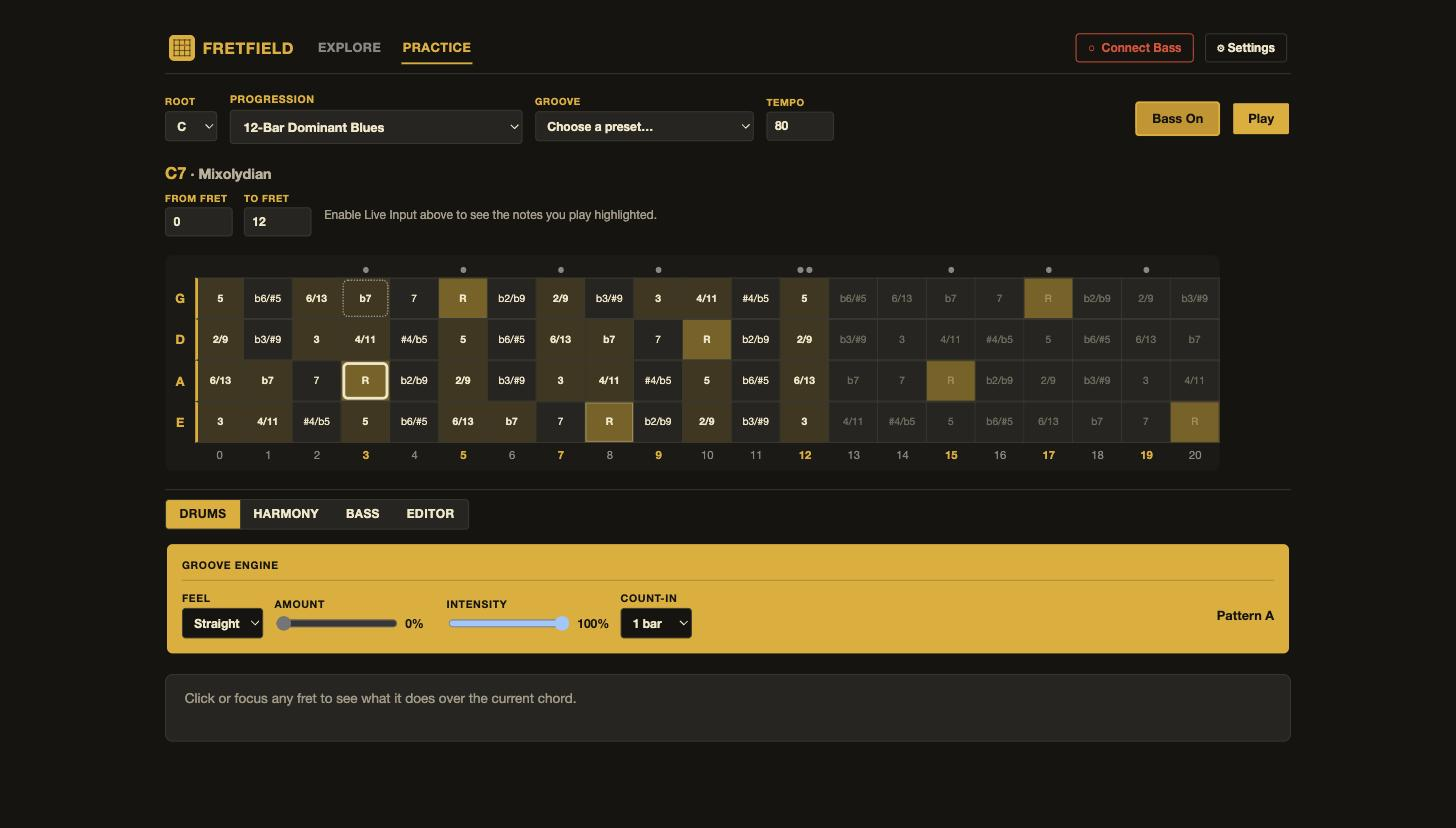
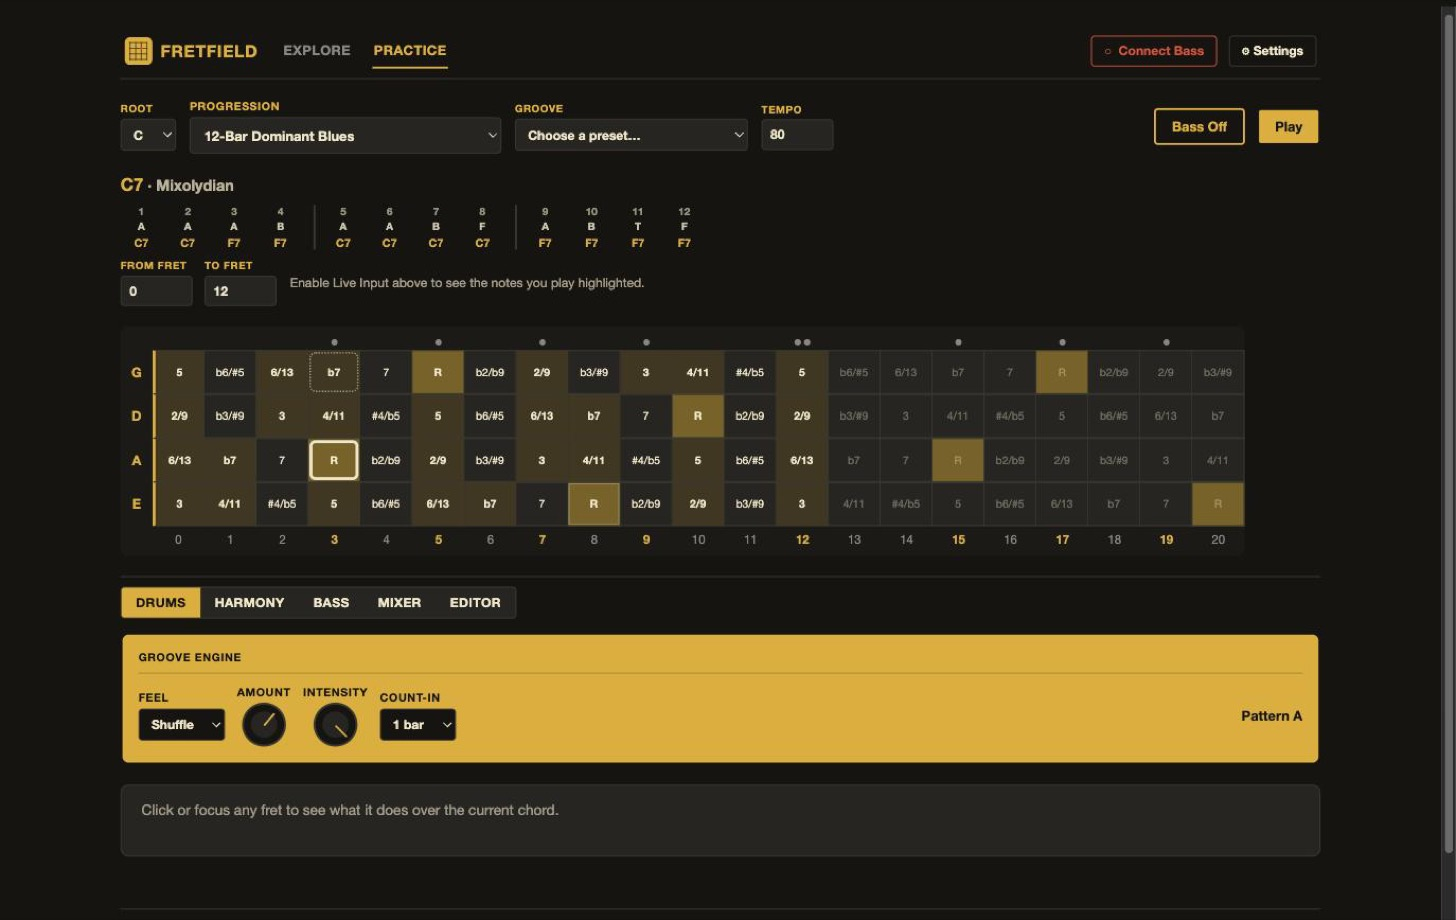
Update README screenshots for the Mixer and rotary-knob restyles
Scale Practice, Acid Bass, Chord Pad FX, and Groove Editor were all
stale -- their tab bar predates today's new Mixer tab, and the Drums
tab's Amount/Intensity are now knobs, not sliders. Adds a new Mixer
screenshot alongside them, turning the Screenshots table into a clean
2x3 grid. Chord Field is untouched this session, so its screenshot is
unchanged. Also updates the "How it's built" file tree/hardware-primitives
blurb: audio/gain.ts is new, and Knob is no longer Acid-Bass/Chord-Pad-FX-only.

diff --git a/README.md b/README.md
@@ -57,11 +57,18 @@ FretField is an interactive bass-fretboard application that teaches the neck as 
 </td>
 </tr>
 <tr>
-<td colspan="2">
+<td width="50%">
 
 **Groove Editor** — the multi-bar arrangement and step grid
 
 <img src="./docs/screenshots/groove-editor.jpg" alt="The Groove Editor showing a 12-bar A/A/A/B/A/A/B/F/A/B/T/F arrangement and the six-voice drum step grid for pattern A">
+
+</td>
+<td width="50%">
+
+**Mixer** — independent Drums/Chords/Bass channel volume
+
+<img src="./docs/screenshots/mixer.jpg" alt="The Mixer tab showing three rotary knobs — Drums, Chords, and Bass — each an independent channel-volume fader">
 
 </td>
 </tr>
@@ -102,7 +109,9 @@ src/lib/audio/
 │                                Phaser/Flanger/Tremolo rack
 ├── acid-bass-voice.ts          the Acid Bass synth's persistent monophonic voice
 ├── acid-bass-lfo.ts            its two free-running, tempo-syncable LFOs
-└── acid-worklet-node.ts        loads the acid24 filter + Pulse-oscillator AudioWorklets
+├── acid-worklet-node.ts        loads the acid24 filter + Pulse-oscillator AudioWorklets
+└── gain.ts                     the shared 0-100 channel-volume curve the Mixer's
+                                 Drums/Chords/Bass faders all use
 
 src/lib/groove/
 ├── types.ts / pattern.ts        Groove/GroovePattern data model + pure mutators
@@ -142,7 +151,10 @@ src/lib/scale-practice/
 src/lib/components/hardware/
 └── Led.svelte, HardwarePanel.svelte, HardwareButton.svelte, Knob.svelte
     the 2026 visual rebrand's reusable primitives — a real rotary Knob with full
-    keyboard support, used across both Acid Bass's and the Chord Pad FX rack's patch macros
+    keyboard support (plus optional disabled/title props), the single volume/level
+    control used everywhere in Scale Practice: Acid Bass's and the Chord Pad FX
+    rack's patch macros, the Mixer's Drums/Chords/Bass faders, and the Groove
+    Engine's own Amount/Intensity
 ```
 
 `src/lib/audio/` only ever knows about acoustic pitch, plain Hz frequencies, and MIDI numbers — it has no concept of a chord, a key, or a scale. Harmonic meaning is layered on afterward: `src/lib/stores/live-input.svelte.ts` combines a detected note with whatever `src/lib/music/` analysis is already on screen, and `src/lib/stores/scale-practice.svelte.ts` resolves each Groove/Acid Bass step's interval into a frequency (via `resolveAcidStepMidi`/`midiToFrequency`) right before calling into the voice — never a second harmony engine living inside the audio layer itself.
